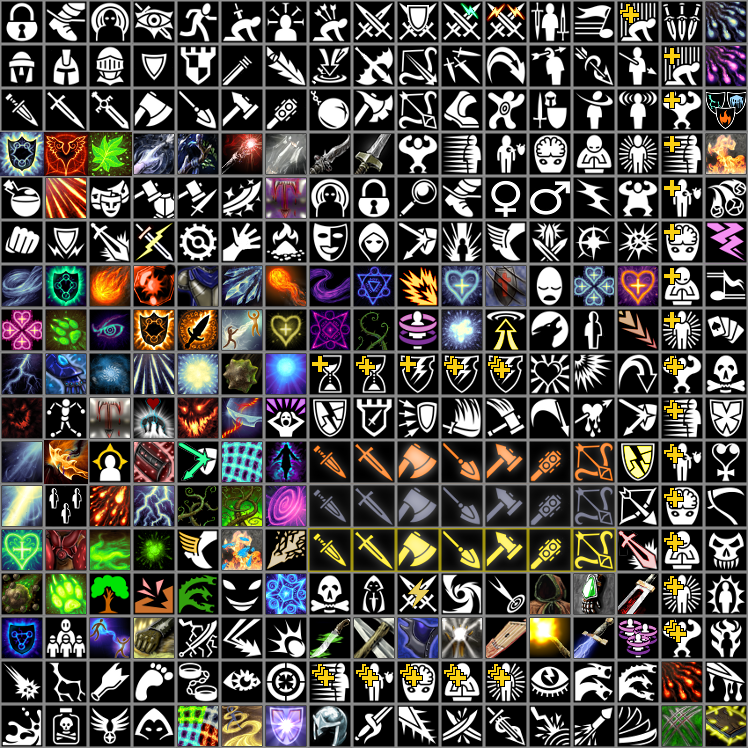
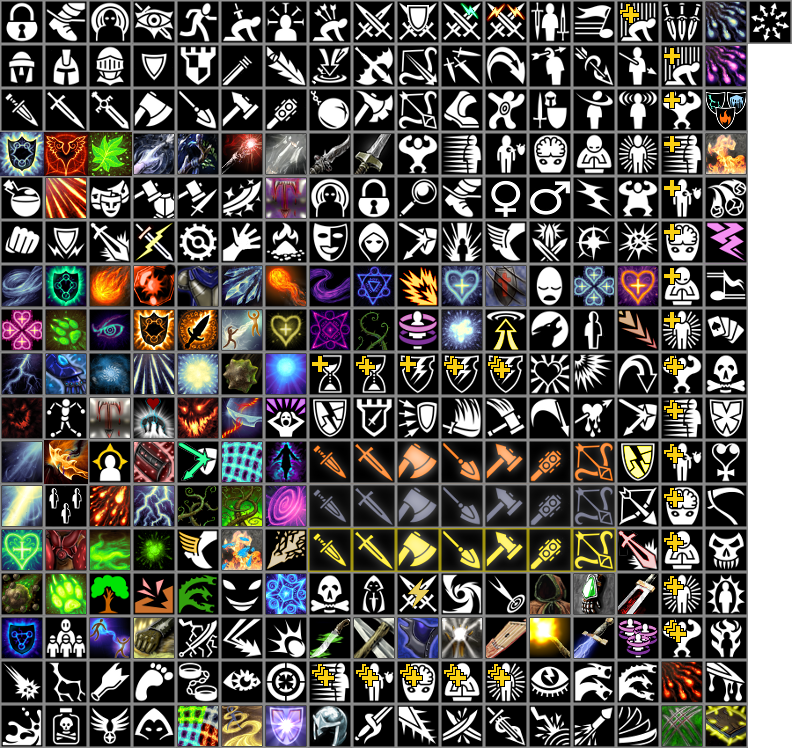
reorganized ranged combat ability tree devastating shot now upgrades crippling shot added new ability, scattershot upgrading multishot

diff --git a/core/scripts/abilities/multiShot.js b/core/scripts/abilities/multiShot.js
@@ -9,11 +9,20 @@ function canActivate(game, parent) {
 }
 
 function onActivate(game, slot) {
-	var creatures = game.ai.getAttackableCreatures(slot.getParent());
+	if (slot.getParent().getAbilities().has("Scattershot")) {
+		var creatures = game.ai.getAttackableCreatures(slot.getParent());
 	
-	var targeter = game.createListTargeter(slot);
-	targeter.addAllowedCreatures(creatures);
-	targeter.activate();
+		var targeter = game.createCircleTargeter(slot);
+		targeter.setRadius(2);
+		targeter.addAllowedCreatures(creatures);
+		targeter.activate();
+	} else {
+		var creatures = game.ai.getAttackableCreatures(slot.getParent());
+	
+		var targeter = game.createListTargeter(slot);
+		targeter.addAllowedCreatures(creatures);
+		targeter.activate();
+	}
 }
 
 function onTargetSelect(game, targeter) {
@@ -30,12 +39,42 @@ function onTargetSelect(game, targeter) {
 
 function performAttack(game, targeter) {
 	var parent = targeter.getParent();
-	var target = targeter.getSelectedCreature();
+	var center = targeter.getMouseGridPosition();
+	var target = game.currentArea().getCreatureAtGridPoint(center);
 	
-	var numAttacks = parseInt(parent.stats().getLevelAttackBonus() / 25);
+	var numAttacks = parseInt(parent.stats().getLevelAttackBonus() / 25) + 1;
 	
 	game.standardAttack(parent, target);
 	numAttacks--;
+	
+	if (parent.getAbilities().has("Scattershot")) {
+		var g1 = game.getBaseParticleGenerator("explosion");
+		g1.setNumParticles(100.0);
+		g1.setDurationDistribution(game.getFixedDistribution(1.0));
+		g1.setPosition(center);
+		g1.setVelocityDistribution(game.getEquallySpacedAngleDistribution(150.0, 200.0, 5.0, 100.0, 1.0));
+		g1.setRedDistribution(game.getUniformDistribution(0.3, 0.5));
+		g1.setGreenDistribution(game.getUniformDistribution(0.2, 0.3));
+		g1.setBlueDistribution(game.getUniformDistribution(0.1, 0.2));
+		g1.setAlphaSpeedDistribution(game.getFixedDistribution(-1.0));
+		game.runParticleGeneratorNoWait(g1);
+		game.lockInterface(g1.getTimeLeft());
+		
+		var targets = targeter.getAffectedCreatures();
+		for (var i = 0; i < targets.size(); i++) {
+			// don't apply shrapnel to the main target
+			if (targets.get(i) == target) continue;
+			
+			var delay = targets.get(i).getPosition().screenDistance(center) / 200.0;
+			
+			var damage = game.dice().d10() + parseInt(parent.stats().getCreatureLevel() / 3);
+			
+			var callback = targeter.getSlot().getAbility().createDelayedCallback("applyScattershot");
+			callback.setDelay(delay);
+			callback.addArguments([targets.get(i), damage]);
+			callback.start();
+		}
+	}
 	
 	while (numAttacks > 0) {
 		game.singleAttack(parent, target);
@@ -43,4 +82,8 @@ function performAttack(game, targeter) {
 		if (target.isDead()) break;
 		numAttacks--;
 	}
+}
+
+function applyScattershot(game, target, damage) {
+	target.takeDamage(damage, "Piercing");
 }

diff --git a/core/scripts/abilities/cripplingShot.js b/core/scripts/abilities/cripplingShot.js
@@ -32,15 +32,24 @@ function performAttack(game, targeter) {
 	
 	// apply a temporary effect with the bonuses
 	var effect = parent.createEffect();
-	effect.getBonuses().addBonus('Attack', 'Stackable', 20);
+	
+	if (parent.getAbilities().has("DevastatingShot")) {
+		effect.getBonuses().addBonus('Attack', 'Stackable', 40);
+		effect.getBonuses().addBonus('Damage', 'Stackable', 160);
+	} else {
+		effect.getBonuses().addBonus('Attack', 'Stackable', 20);
+	}
+	
 	parent.applyEffect(effect);
 
+	// perform the attack
 	if (game.standardAttack(parent, target)) {
-		var checkDC = 50 + 2 * (parent.stats().getDex() - 1) + parent.stats().getLevelAttackBonus() / 2;
+		var checkDC = 50 + 2 * (parent.stats().getDex() - 10) + parent.stats().getLevelAttackBonus() / 2;
 		
+		// check the crippling shot effect
 		if (!target.reflexCheck(checkDC)) {
 			var effect2 = parent.createEffect();
-			effect2.setDuration(4);
+			effect2.setDuration(3);
 			effect2.setTitle(targeter.getSlot().getAbility().getName());
 			effect2.getBonuses().add('Immobilized');
 			
@@ -55,7 +64,7 @@ function performAttack(game, targeter) {
 			target.applyEffect(effect2);
 		} else {
 			var effect2 = parent.createEffect();
-			effect2.setDuration(4);
+			effect2.setDuration(3);
 			effect2.setTitle(targeter.getSlot().getAbility().getName());
 			effect2.getBonuses().addPenalty('Movement', -50);
 			target.applyEffect(effect2);
